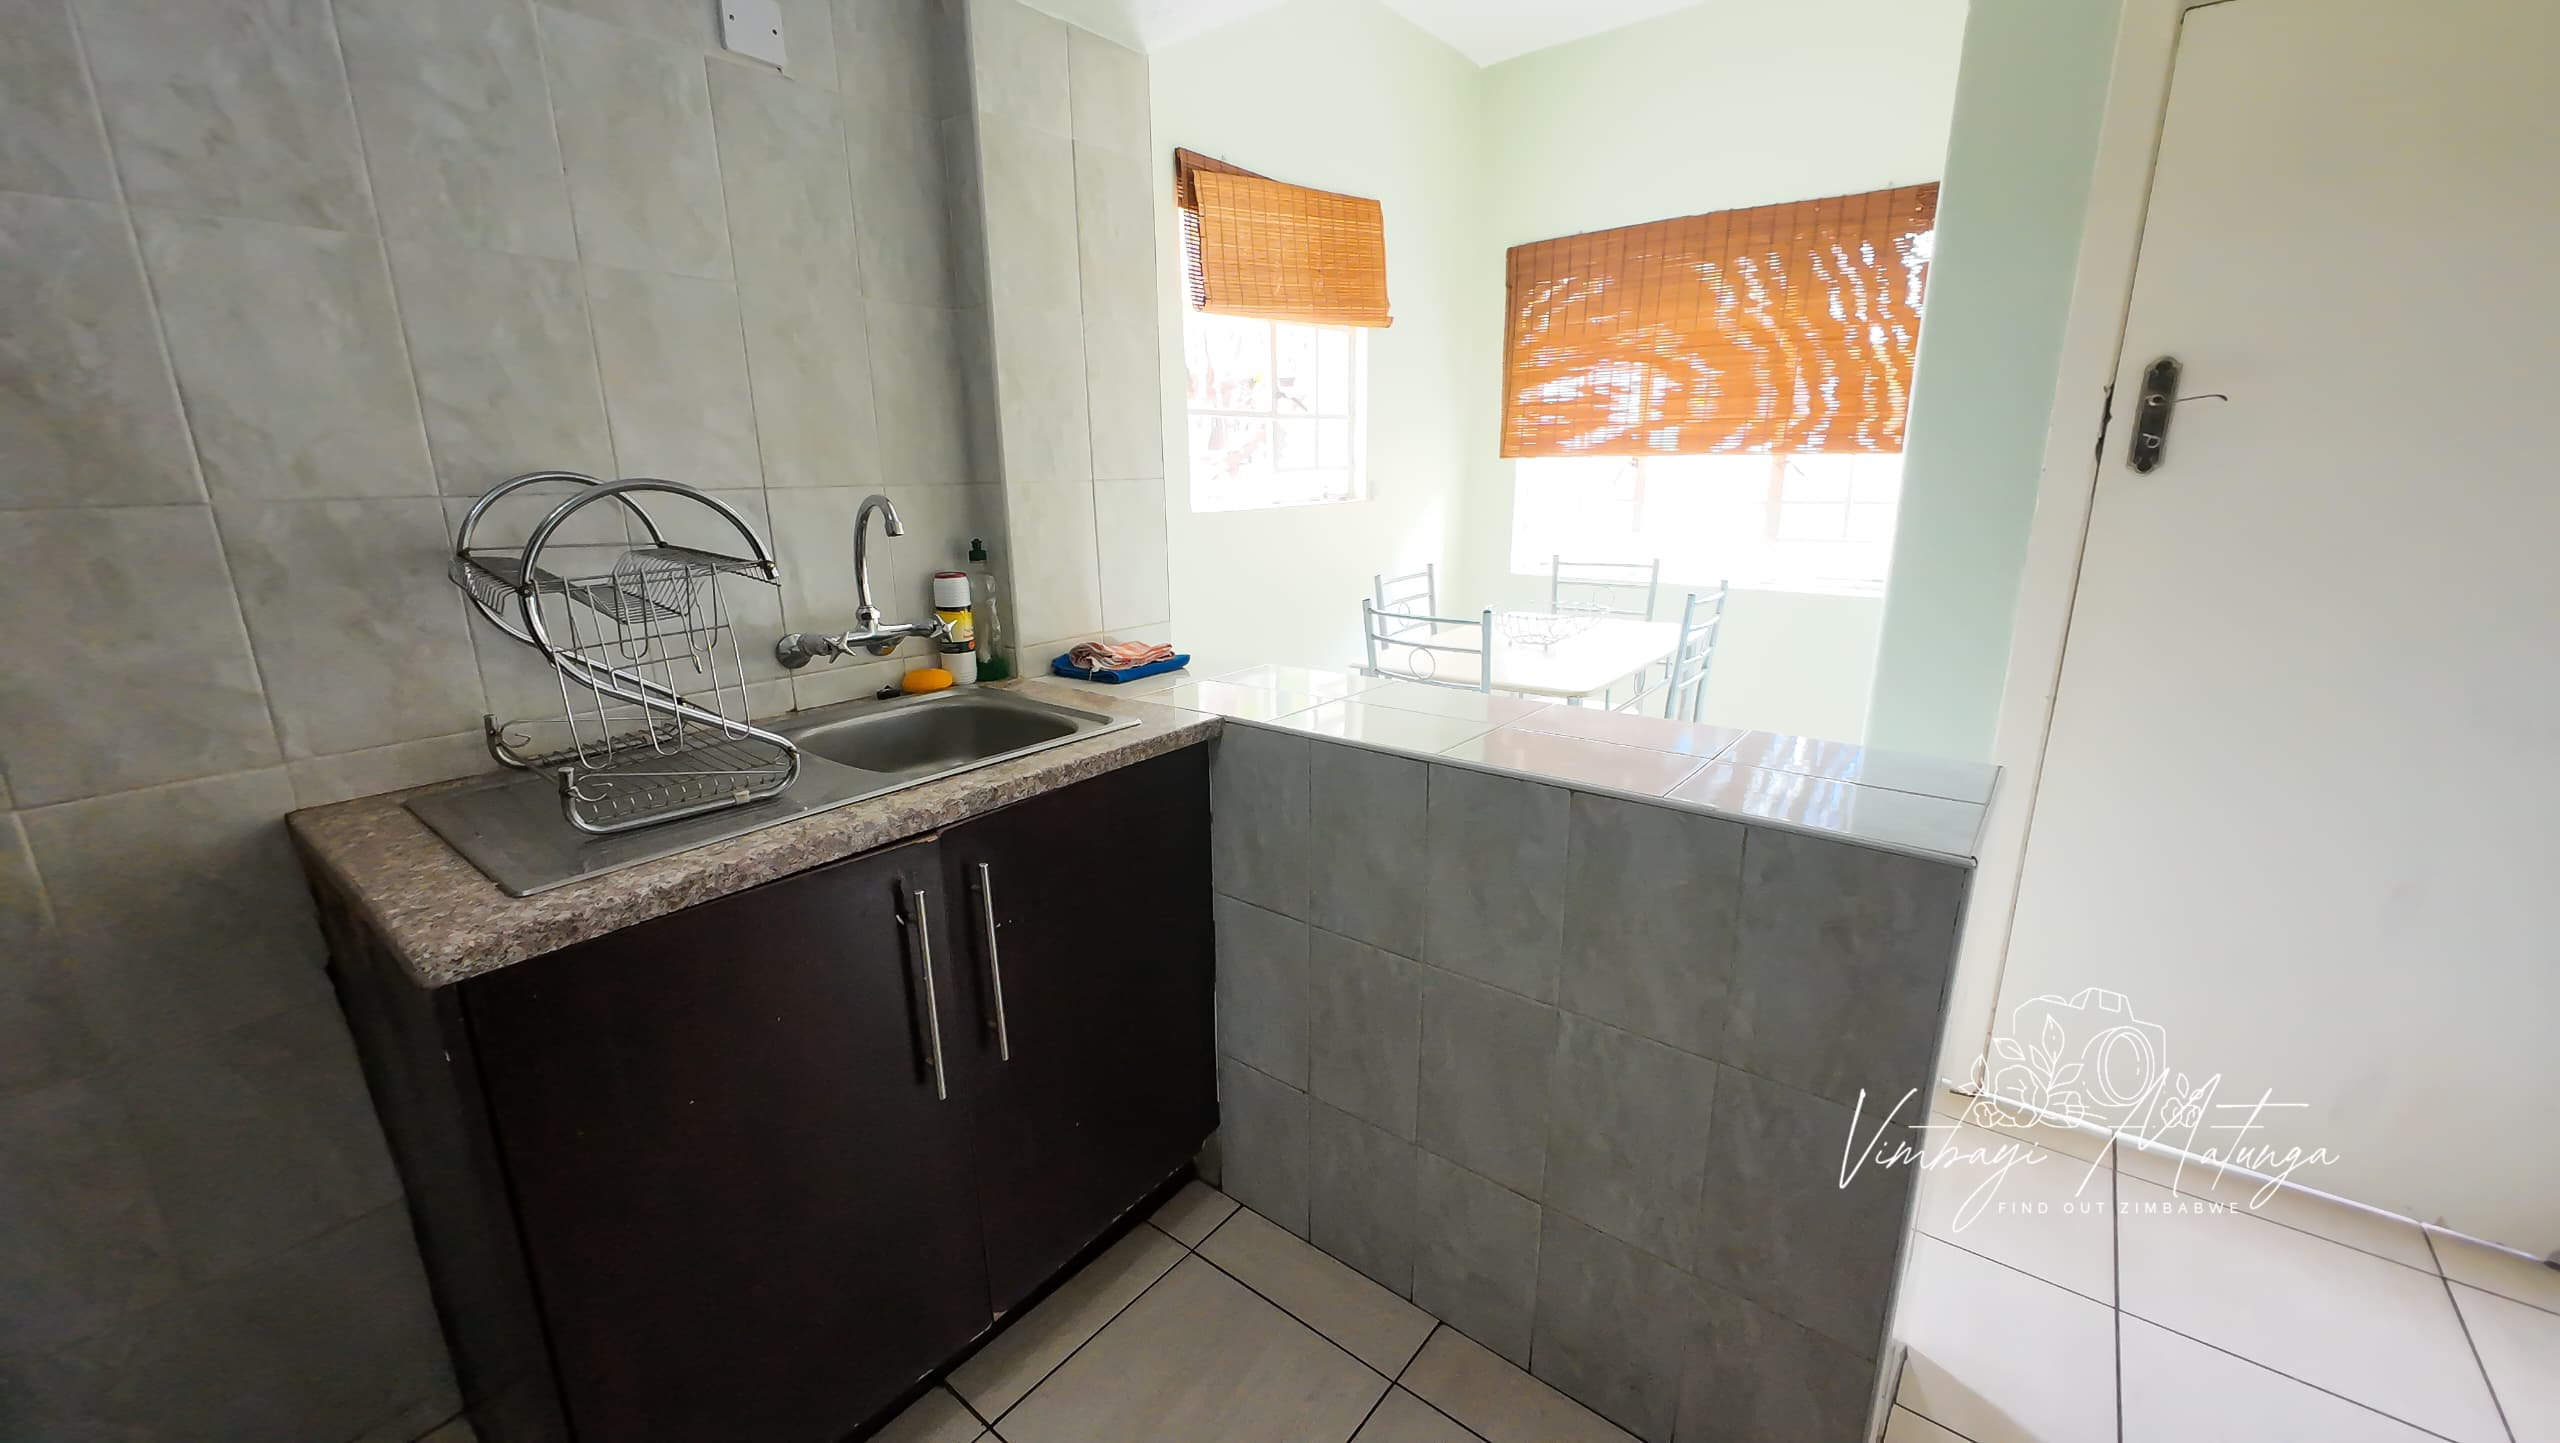
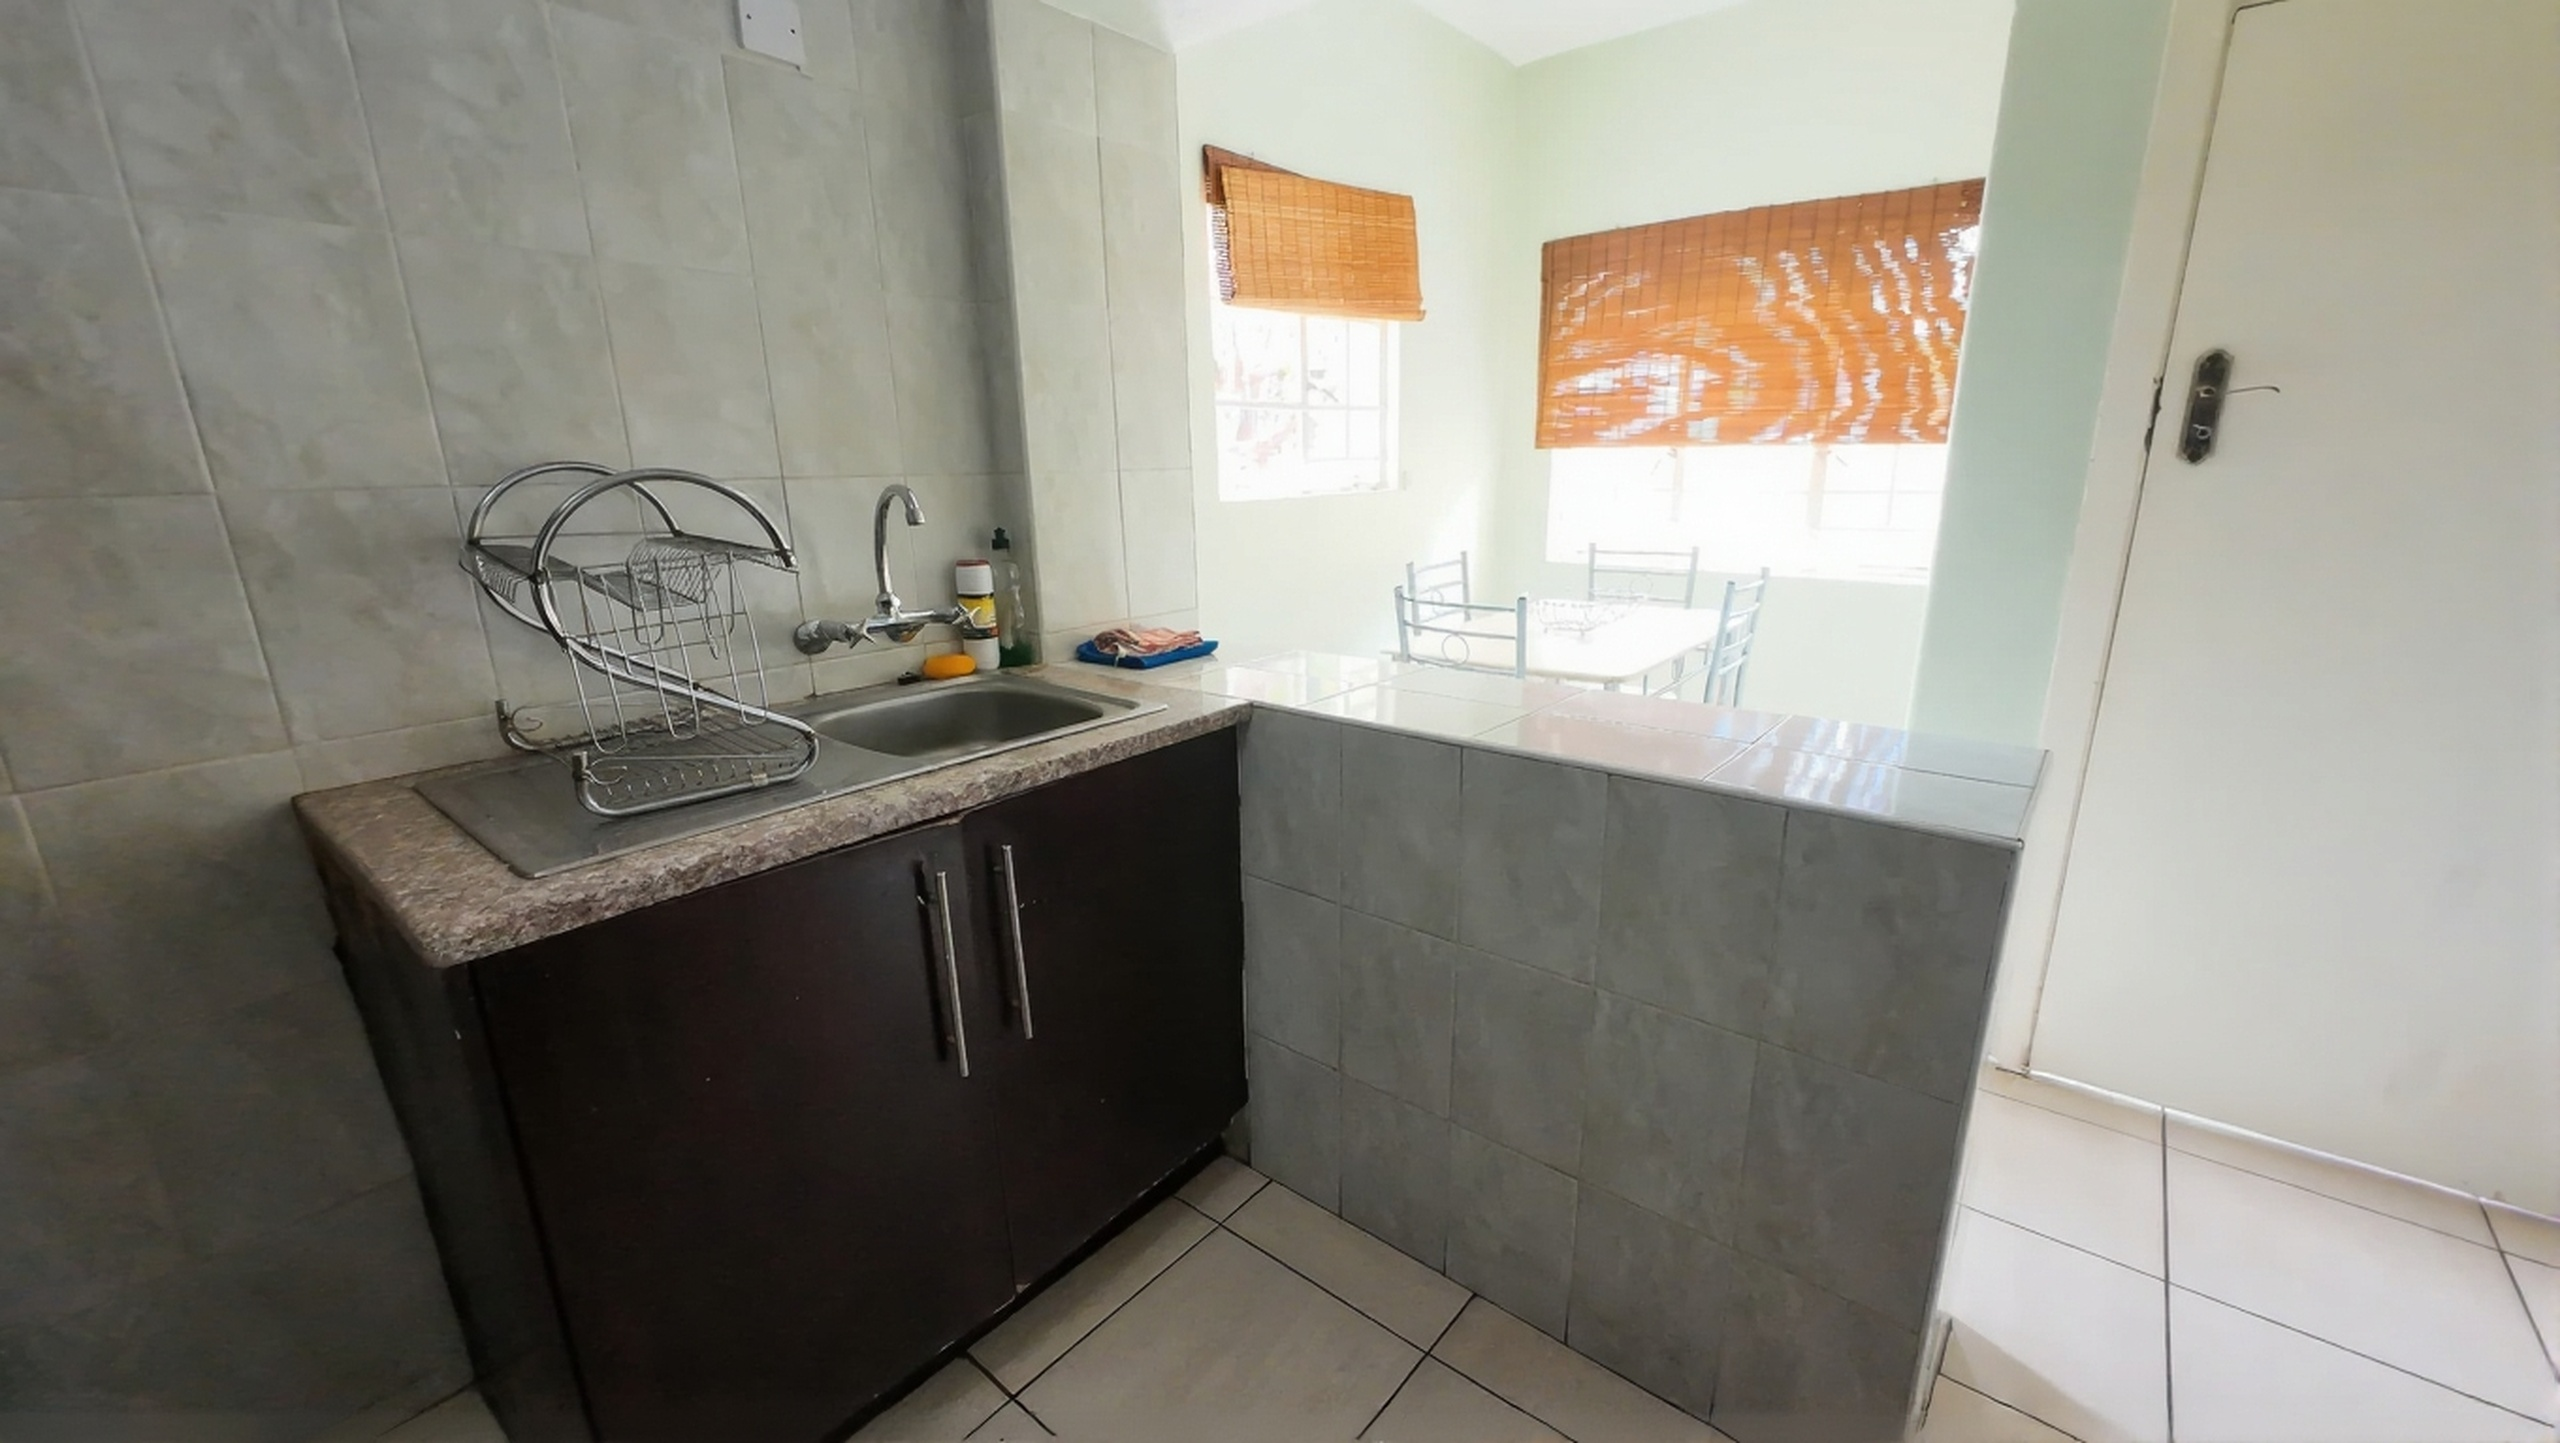
Add files via upload

diff --git a/index.html b/index.html
@@ -17,7 +17,7 @@
 <meta name="geo.region" content="ZW-BU">
 <meta name="geo.placename" content="Bulawayo">
 <meta name="keywords" content="Arikho Suites, Bulawayo accommodation, self-catering apartments, Bulawayo CBD hotel, Zimbabwe lodging, 3-bedroom apartments Bulawayo">
-<link rel="preload" as="image" href="images/hero-bedroom.jpeg">
+<link rel="preload" as="image" href="images/king-1.jpeg">
 <link rel="preconnect" href="https://fonts.googleapis.com">
 <link rel="preconnect" href="https://fonts.gstatic.com" crossorigin>
 <link href="https://fonts.googleapis.com/css2?family=Cormorant+Garamond:ital,wght@0,400;0,500;0,600;1,400;1,500&family=DM+Sans:wght@300;400;500;600&display=swap" rel="stylesheet">
@@ -538,16 +538,16 @@ h3.heading{font-family:var(--serif);font-size:1.65rem;font-weight:500;color:var(
 
 /* ── WA CTA SECTION ─────────────────────────────────── */
 .wa-sec{
-  background:linear-gradient(135deg,var(--plum) 0%,var(--charcoal) 60%,var(--olive) 100%);
+  background:linear-gradient(135deg,var(--plum-soft) 0%,var(--olive-soft) 100%);
   padding:6.5rem 5vw;text-align:center;position:relative;overflow:hidden;
 }
 .wa-sec::before{
   content:'';position:absolute;inset:0;
-  background:radial-gradient(ellipse 70% 70% at 50% 50%,rgba(92,31,110,.3),transparent);
+  background:radial-gradient(ellipse 70% 70% at 50% 50%,rgba(92,31,110,.07),transparent);
   pointer-events:none;
 }
 .wa-sec h2{margin-bottom:1rem;position:relative;z-index:1}
-.wa-sec p{color:rgba(255,255,255,.65);max-width:480px;margin:0 auto 2.8rem;font-weight:300;font-size:1rem;line-height:1.9;position:relative;z-index:1}
+.wa-sec p{color:var(--stone);max-width:480px;margin:0 auto 2.8rem;font-weight:300;font-size:1rem;line-height:1.9;position:relative;z-index:1}
 .wa-sec .btn-wa{position:relative;z-index:1}
 
 /* ── FLOATING WA ─────────────────────────────────────── */
@@ -591,11 +591,11 @@ h3.heading{font-family:var(--serif);font-size:1.65rem;font-weight:500;color:var(
 .loc-split{display:grid;grid-template-columns:1fr 1fr;min-height:440px}
 .loc-map iframe{width:100%;height:100%;min-height:440px;border:none}
 .loc-info{
-  background:linear-gradient(135deg,var(--charcoal) 0%,var(--plum) 100%);
+  background:linear-gradient(135deg,var(--sand) 0%,var(--plum-soft) 100%);
   padding:4.5rem 5vw;display:flex;flex-direction:column;justify-content:center;
 }
 .loc-info h2{margin-bottom:.9rem}
-.loc-info p{color:rgba(255,255,255,.62);font-weight:300;font-size:.95rem;line-height:1.9;max-width:330px}
+.loc-info p{color:var(--stone);font-weight:300;font-size:.95rem;line-height:1.9;max-width:330px}
 @media(max-width:768px){.loc-split{grid-template-columns:1fr}.loc-map iframe{min-height:280px}}
 
 /* ── MASONRY GALLERY ────────────────────────────────── */
@@ -977,16 +977,16 @@ footer{background:var(--charcoal);color:rgba(255,255,255,.55);padding:5rem 5vw 2
         <div class="img-brand"><span class="img-brand-txt">Arikho Suites</span></div>
       </div>
     </div>
-    <div class="split-body" style="background:linear-gradient(140deg,var(--plum) 0%,var(--charcoal) 100%)">
-      <div class="eyebrow light" style="margin-bottom:1.2rem">A Warm Welcome Awaits You</div>
-      <h2 class="display light" style="margin-bottom:1.4rem">Home Away<br><em>From Home</em></h2>
-      <p style="color:rgba(255,255,255,.7);font-weight:300;line-height:1.95;font-size:1rem;margin-bottom:1rem">
+    <div class="split-body" style="background:linear-gradient(140deg,var(--plum-soft) 0%,var(--sand) 100%)">
+      <div class="eyebrow" style="margin-bottom:1.2rem">A Warm Welcome Awaits You</div>
+      <h2 class="display" style="margin-bottom:1.4rem">Home Away<br><em>From Home</em></h2>
+      <p style="color:var(--stone);font-weight:300;line-height:1.95;font-size:1rem;margin-bottom:1rem">
         Whether you're here for business or leisure, our team is committed to ensuring your stay exceeds expectations — from arrival to departure.
       </p>
-      <p style="color:rgba(255,255,255,.5);font-weight:300;line-height:1.9;font-size:.93rem;margin-bottom:2.2rem">
+      <p style="color:var(--stone-light);font-weight:300;line-height:1.9;font-size:.93rem;margin-bottom:2.2rem">
         Established in 2013, Arikho Properties (Pvt Ltd) is a registered self-catering accommodation company with extensive industry knowledge and a passion for exceptional hospitality.
       </p>
-      <button class="btn btn-gold" onclick="go('about')">Our Story →</button>
+      <button class="btn btn-plum" onclick="go('about')">Our Story →</button>
     </div>
   </div>
 
@@ -1026,10 +1026,10 @@ footer{background:var(--charcoal);color:rgba(255,255,255,.55);padding:5rem 5vw 2
   </section>
 
   <!-- TESTIMONIALS -->
-  <section class="sec" style="background:linear-gradient(135deg,var(--charcoal) 0%,#1a0e20 60%,var(--charcoal-2) 100%)">
+  <section class="sec" style="background:linear-gradient(135deg,var(--sand) 0%,var(--cream) 100%)">
     <div class="reveal">
-      <div class="eyebrow light" style="margin-bottom:.8rem">Guest Reviews</div>
-      <h2 class="display light">What Our <em>Guests</em> Say</h2>
+      <div class="eyebrow" style="margin-bottom:.8rem">Guest Reviews</div>
+      <h2 class="display">What Our <em>Guests</em> Say</h2>
     </div>
     <div class="testi-grid reveal" style="transition-delay:.1s">
       <div class="testi-card">
@@ -1074,8 +1074,8 @@ footer{background:var(--charcoal);color:rgba(255,255,255,.55);padding:5rem 5vw 2
       <iframe src="https://www.google.com/maps/embed?pb=!1m18!1m12!1m3!1d3797!2d28.5752!3d-20.1569!2m3!1f0!2f0!3f0!3m2!1i1024!2i768!4f13.1!3m3!1m2!1s0x19266!2sArikho+Suites!5e0!3m2!1sen!2szw!4v1" loading="lazy" title="Arikho Suites Location"></iframe>
     </div>
     <div class="loc-info">
-      <div class="eyebrow light" style="margin-bottom:1rem">Location</div>
-      <h2 class="display light">Heart of <em>Bulawayo</em></h2>
+      <div class="eyebrow" style="margin-bottom:1rem">Location</div>
+      <h2 class="display">Heart of <em>Bulawayo</em></h2>
       <p style="margin-top:1.1rem">4th Avenue / Samuel Parirenyatwa Street, Bulawayo CBD</p>
       <p style="margin-top:.5rem">Also at: 1 Livingstone Avenue, Suburbs, Bulawayo</p>
       <a href="https://maps.google.com/?q=Arikho+Suites+Bulawayo" target="_blank" class="btn btn-gold" style="margin-top:2.2rem;align-self:flex-start">Get Directions →</a>
@@ -1084,8 +1084,8 @@ footer{background:var(--charcoal);color:rgba(255,255,255,.55);padding:5rem 5vw 2
 
   <!-- WA CTA -->
   <div class="wa-sec reveal">
-    <div class="eyebrow light center" style="margin-bottom:1rem;justify-content:center">Direct Bookings</div>
-    <h2 class="display light" style="margin-bottom:1rem">Ready to <em>Stay With Us?</em></h2>
+    <div class="eyebrow center" style="margin-bottom:1rem;justify-content:center">Direct Bookings</div>
+    <h2 class="display" style="margin-bottom:1rem">Ready to <em>Stay With Us?</em></h2>
     <p>No booking fees. Chat directly with our team for the best rate, instant confirmation, and a personal welcome.</p>
     <a href="https://wa.me/263783029961?text=Hello%20Arikho%20Suites%2C%20I%20would%20like%20to%20enquire%20about%20room%20availability%20and%20rates." target="_blank" class="btn-wa" style="margin:0 auto">
       <svg viewBox="0 0 24 24"><path d="M17.472 14.382c-.297-.149-1.758-.867-2.03-.967-.273-.099-.471-.148-.67.15-.197.297-.767.966-.94 1.164-.173.199-.347.223-.644.075-.297-.15-1.255-.463-2.39-1.475-.883-.788-1.48-1.761-1.653-2.059-.173-.297-.018-.458.13-.606.134-.133.298-.347.446-.52.149-.174.198-.298.298-.497.099-.198.05-.371-.025-.52-.075-.149-.669-1.612-.916-2.207-.242-.579-.487-.5-.669-.51-.173-.008-.371-.01-.57-.01-.198 0-.52.074-.792.372-.272.297-1.04 1.016-1.04 2.479 0 1.462 1.065 2.875 1.213 3.074.149.198 2.096 3.2 5.077 4.487.709.306 1.262.489 1.694.625.712.227 1.36.195 1.871.118.571-.085 1.758-.719 2.006-1.413.248-.694.248-1.289.173-1.413-.074-.124-.272-.198-.57-.347m-5.421 7.403h-.004a9.87 9.87 0 01-5.031-1.378l-.361-.214-3.741.982.998-3.648-.235-.374a9.86 9.86 0 01-1.51-5.26c.001-5.45 4.436-9.884 9.888-9.884 2.64 0 5.122 1.03 6.988 2.898a9.825 9.825 0 012.893 6.994c-.003 5.45-4.437 9.884-9.885 9.884m8.413-18.297A11.815 11.815 0 0012.05 0C5.495 0 .16 5.335.157 11.892c0 2.096.547 4.142 1.588 5.945L.057 24l6.305-1.654a11.882 11.882 0 005.683 1.448h.005c6.554 0 11.89-5.335 11.893-11.893a11.821 11.821 0 00-3.48-8.413z"/></svg>
@@ -1102,7 +1102,7 @@ footer{background:var(--charcoal);color:rgba(255,255,255,.55);padding:5rem 5vw 2
 <div id="page-rooms" class="page">
   <div style="padding-top:78px"></div>
   <div class="pg-hero">
-    <img src="images/hero-bedroom.jpeg" alt="Arikho Suites accommodation">
+    <img src="images/king-1.jpeg" alt="Arikho Suites accommodation">
     <div class="pg-hero-grad"></div>
     <div class="pg-hero-content">
       <div class="eyebrow light" style="margin-bottom:.8rem">Accommodation</div>
@@ -1125,8 +1125,8 @@ footer{background:var(--charcoal);color:rgba(255,255,255,.55);padding:5rem 5vw 2
     <div class="fac-grid reveal" id="facGrid2" style="transition-delay:.1s"></div>
   </section>
   <div class="wa-sec reveal">
-    <div class="eyebrow light center" style="margin-bottom:1rem;justify-content:center">Make a Reservation</div>
-    <h2 class="display light" style="margin-bottom:1rem">Found Your <em>Perfect Room?</em></h2>
+    <div class="eyebrow center" style="margin-bottom:1rem;justify-content:center">Make a Reservation</div>
+    <h2 class="display" style="margin-bottom:1rem">Found Your <em>Perfect Room?</em></h2>
     <p>Tell us your dates and any requirements. We'll respond within minutes.</p>
     <a href="https://wa.me/263783029961?text=Hello%20Arikho%20Suites%2C%20I%20would%20like%20to%20enquire%20about%20room%20availability%20and%20rates." target="_blank" class="btn-wa" style="margin:0 auto">
       <svg viewBox="0 0 24 24"><path d="M17.472 14.382c-.297-.149-1.758-.867-2.03-.967-.273-.099-.471-.148-.67.15-.197.297-.767.966-.94 1.164-.173.199-.347.223-.644.075-.297-.15-1.255-.463-2.39-1.475-.883-.788-1.48-1.761-1.653-2.059-.173-.297-.018-.458.13-.606.134-.133.298-.347.446-.52.149-.174.198-.298.298-.497.099-.198.05-.371-.025-.52-.075-.149-.669-1.612-.916-2.207-.242-.579-.487-.5-.669-.51-.173-.008-.371-.01-.57-.01-.198 0-.52.074-.792.372-.272.297-1.04 1.016-1.04 2.479 0 1.462 1.065 2.875 1.213 3.074.149.198 2.096 3.2 5.077 4.487.709.306 1.262.489 1.694.625.712.227 1.36.195 1.871.118.571-.085 1.758-.719 2.006-1.413.248-.694.248-1.289.173-1.413-.074-.124-.272-.198-.57-.347m-5.421 7.403h-.004a9.87 9.87 0 01-5.031-1.378l-.361-.214-3.741.982.998-3.648-.235-.374a9.86 9.86 0 01-1.51-5.26c.001-5.45 4.436-9.884 9.888-9.884 2.64 0 5.122 1.03 6.988 2.898a9.825 9.825 0 012.893 6.994c-.003 5.45-4.437 9.884-9.885 9.884m8.413-18.297A11.815 11.815 0 0012.05 0C5.495 0 .16 5.335.157 11.892c0 2.096.547 4.142 1.588 5.945L.057 24l6.305-1.654a11.882 11.882 0 005.683 1.448h.005c6.554 0 11.89-5.335 11.893-11.893a11.821 11.821 0 00-3.48-8.413z"/></svg>
@@ -1173,7 +1173,7 @@ footer{background:var(--charcoal);color:rgba(255,255,255,.55);padding:5rem 5vw 2
     <div class="masonry reveal" id="galGrid" style="transition-delay:.1s"></div>
   </section>
   <div class="wa-sec reveal">
-    <h2 class="display light" style="margin-bottom:1rem">Like What You <em>See?</em></h2>
+    <h2 class="display" style="margin-bottom:1rem">Like What You <em>See?</em></h2>
     <p>Book directly with our team for the best rates and a personal welcome.</p>
     <a href="https://wa.me/263783029961?text=Hello%20Arikho%20Suites%2C%20I%20saw%20your%20gallery%20and%20would%20like%20to%20book%20a%20stay." target="_blank" class="btn-wa" style="margin:0 auto">
       <svg viewBox="0 0 24 24"><path d="M17.472 14.382c-.297-.149-1.758-.867-2.03-.967-.273-.099-.471-.148-.67.15-.197.297-.767.966-.94 1.164-.173.199-.347.223-.644.075-.297-.15-1.255-.463-2.39-1.475-.883-.788-1.48-1.761-1.653-2.059-.173-.297-.018-.458.13-.606.134-.133.298-.347.446-.52.149-.174.198-.298.298-.497.099-.198.05-.371-.025-.52-.075-.149-.669-1.612-.916-2.207-.242-.579-.487-.5-.669-.51-.173-.008-.371-.01-.57-.01-.198 0-.52.074-.792.372-.272.297-1.04 1.016-1.04 2.479 0 1.462 1.065 2.875 1.213 3.074.149.198 2.096 3.2 5.077 4.487.709.306 1.262.489 1.694.625.712.227 1.36.195 1.871.118.571-.085 1.758-.719 2.006-1.413.248-.694.248-1.289.173-1.413-.074-.124-.272-.198-.57-.347m-5.421 7.403h-.004a9.87 9.87 0 01-5.031-1.378l-.361-.214-3.741.982.998-3.648-.235-.374a9.86 9.86 0 01-1.51-5.26c.001-5.45 4.436-9.884 9.888-9.884 2.64 0 5.122 1.03 6.988 2.898a9.825 9.825 0 012.893 6.994c-.003 5.45-4.437 9.884-9.885 9.884m8.413-18.297A11.815 11.815 0 0012.05 0C5.495 0 .16 5.335.157 11.892c0 2.096.547 4.142 1.588 5.945L.057 24l6.305-1.654a11.882 11.882 0 005.683 1.448h.005c6.554 0 11.89-5.335 11.893-11.893a11.821 11.821 0 00-3.48-8.413z"/></svg>
@@ -1189,7 +1189,7 @@ footer{background:var(--charcoal);color:rgba(255,255,255,.55);padding:5rem 5vw 2
 <div id="page-about" class="page">
   <div style="padding-top:78px"></div>
   <div class="pg-hero">
-    <img src="images/room-executive-2.jpg" alt="Arikho Suites interior">
+    <img src="images/deluxe-1.jpeg" alt="Arikho Suites interior">
     <div class="pg-hero-grad"></div>
     <div class="pg-hero-content">
       <div class="eyebrow light" style="margin-bottom:.8rem">Our Story</div>
@@ -1207,7 +1207,7 @@ footer{background:var(--charcoal);color:rgba(255,255,255,.55);padding:5rem 5vw 2
         <p class="body-sm">At Arikho Suites, we are committed to providing excellent accommodation, efficient service, and exceptional hospitality standards for every guest — whether you are visiting Bulawayo for business or leisure.</p>
       </div>
       <div class="img-wrap" style="aspect-ratio:4/5;border-radius:1rem;overflow:hidden;box-shadow:var(--shadow-lg)">
-        <img src="images/room-executive-1.jpg" alt="Arikho Suites premium room">
+        <img src="images/deluxe-2.jpeg" alt="Arikho Suites premium room">
         <div class="img-brand"><span class="img-brand-txt">Arikho Suites</span></div>
       </div>
     </div>
@@ -1258,7 +1258,7 @@ footer{background:var(--charcoal);color:rgba(255,255,255,.55);padding:5rem 5vw 2
   <section class="sec-sm" style="background:var(--charcoal-2);padding-top:3rem;padding-bottom:3rem">
     <div style="display:grid;grid-template-columns:repeat(4,1fr);gap:4px;border-radius:.75rem;overflow:hidden" class="reveal">
       <div class="img-wrap" style="aspect-ratio:1"><img src="images/kitchen-1.jpeg" alt="Kitchen"><div class="img-brand"><span class="img-brand-txt">Arikho Suites</span></div></div>
-      <div class="img-wrap" style="aspect-ratio:1"><img src="images/bathroom-ensuite.jpg" alt="Ensuite bathroom"><div class="img-brand"><span class="img-brand-txt">Arikho Suites</span></div></div>
+      <div class="img-wrap" style="aspect-ratio:1"><img src="images/king-bath-1.jpeg" alt="Ensuite bathroom"><div class="img-brand"><span class="img-brand-txt">Arikho Suites</span></div></div>
       <div class="img-wrap" style="aspect-ratio:1"><img src="images/dining-room.jpg" alt="Dining area"><div class="img-brand"><span class="img-brand-txt">Arikho Suites</span></div></div>
       <div class="img-wrap" style="aspect-ratio:1"><img src="images/toiletries.png" alt="Guest amenities"><div class="img-brand"><span class="img-brand-txt">Arikho Suites</span></div></div>
     </div>
@@ -1266,23 +1266,23 @@ footer{background:var(--charcoal);color:rgba(255,255,255,.55);padding:5rem 5vw 2
 
   <!-- COMMITMENT SPLIT -->
   <div class="split reveal">
-    <div class="split-body" style="background:linear-gradient(140deg,var(--plum) 0%,var(--charcoal) 100%)">
-      <div class="eyebrow light" style="margin-bottom:1rem">Our Commitment</div>
-      <h2 class="display light" style="margin-bottom:1.4rem">Always <em>Here</em><br>For You</h2>
-      <p style="color:rgba(255,255,255,.68);font-weight:300;line-height:1.95;font-size:.97rem;margin-bottom:1rem">Our office is open from 7am to 8pm daily. Outside of office hours, our security team is on-site to assist with any needs.</p>
-      <p style="color:rgba(255,255,255,.5);font-weight:300;line-height:1.9;font-size:.93rem;margin-bottom:2.2rem">Whether you need a professional chef to prepare your meals, laundry handled, or airport transfers arranged — our team goes the extra mile every time.</p>
-      <a href="https://wa.me/263783029961?text=Hello%20Arikho%20Suites%2C%20I%20would%20like%20to%20make%20a%20booking%20enquiry." target="_blank" class="btn btn-gold">Book a Suite →</a>
+    <div class="split-body" style="background:linear-gradient(140deg,var(--plum-soft) 0%,var(--sand) 100%)">
+      <div class="eyebrow" style="margin-bottom:1rem">Our Commitment</div>
+      <h2 class="display" style="margin-bottom:1.4rem">Always <em>Here</em><br>For You</h2>
+      <p style="color:var(--stone);font-weight:300;line-height:1.95;font-size:.97rem;margin-bottom:1rem">Our office is open from 7am to 8pm daily. Outside of office hours, our security team is on-site to assist with any needs.</p>
+      <p style="color:var(--stone-light);font-weight:300;line-height:1.9;font-size:.93rem;margin-bottom:2.2rem">Whether you need a professional chef to prepare your meals, laundry handled, or airport transfers arranged — our team goes the extra mile every time.</p>
+      <a href="https://wa.me/263783029961?text=Hello%20Arikho%20Suites%2C%20I%20would%20like%20to%20make%20a%20booking%20enquiry." target="_blank" class="btn btn-plum">Book a Suite →</a>
     </div>
     <div class="split-img">
       <div class="img-wrap" style="height:100%">
-        <img src="images/room-double-1.jpg" alt="Arikho Suites bedroom">
+        <img src="images/king-2.jpeg" alt="Arikho Suites bedroom">
         <div class="img-brand"><span class="img-brand-txt">Arikho Suites</span></div>
       </div>
     </div>
   </div>
 
   <div class="wa-sec reveal">
-    <h2 class="display light" style="margin-bottom:1rem">Stay With <em>Us</em></h2>
+    <h2 class="display" style="margin-bottom:1rem">Stay With <em>Us</em></h2>
     <p>Business · Leisure · Great Hospitality</p>
     <a href="https://wa.me/263783029961?text=Hello%20Arikho%20Suites%2C%20I%20would%20like%20to%20make%20a%20booking%20enquiry." target="_blank" class="btn-wa" style="margin:0 auto">
       <svg viewBox="0 0 24 24"><path d="M17.472 14.382c-.297-.149-1.758-.867-2.03-.967-.273-.099-.471-.148-.67.15-.197.297-.767.966-.94 1.164-.173.199-.347.223-.644.075-.297-.15-1.255-.463-2.39-1.475-.883-.788-1.48-1.761-1.653-2.059-.173-.297-.018-.458.13-.606.134-.133.298-.347.446-.52.149-.174.198-.298.298-.497.099-.198.05-.371-.025-.52-.075-.149-.669-1.612-.916-2.207-.242-.579-.487-.5-.669-.51-.173-.008-.371-.01-.57-.01-.198 0-.52.074-.792.372-.272.297-1.04 1.016-1.04 2.479 0 1.462 1.065 2.875 1.213 3.074.149.198 2.096 3.2 5.077 4.487.709.306 1.262.489 1.694.625.712.227 1.36.195 1.871.118.571-.085 1.758-.719 2.006-1.413.248-.694.248-1.289.173-1.413-.074-.124-.272-.198-.57-.347m-5.421 7.403h-.004a9.87 9.87 0 01-5.031-1.378l-.361-.214-3.741.982.998-3.648-.235-.374a9.86 9.86 0 01-1.51-5.26c.001-5.45 4.436-9.884 9.888-9.884 2.64 0 5.122 1.03 6.988 2.898a9.825 9.825 0 012.893 6.994c-.003 5.45-4.437 9.884-9.885 9.884m8.413-18.297A11.815 11.815 0 0012.05 0C5.495 0 .16 5.335.157 11.892c0 2.096.547 4.142 1.588 5.945L.057 24l6.305-1.654a11.882 11.882 0 005.683 1.448h.005c6.554 0 11.89-5.335 11.893-11.893a11.821 11.821 0 00-3.48-8.413z"/></svg>
@@ -1371,8 +1371,8 @@ footer{background:var(--charcoal);color:rgba(255,255,255,.55);padding:5rem 5vw 2
 const WA = n => `https://wa.me/263783029961?text=${encodeURIComponent(n)}`;
 
 const HERO = [
-  'images/hero-bedroom.jpeg',
-  'images/room-executive-1.jpg',
+  'images/king-1.jpeg',
+  'images/deluxe-1.jpeg',
   'images/reception.png'
 ];
 
@@ -1389,43 +1389,56 @@ const FEAT_ICONS = {
 
 const ROOMS = [
   {
+    id:'standard-room',
+    name:'Standard Room',
+    short:'Comfortable standard room with a cosy double bed, private ensuite bathroom and all essential amenities for a relaxing stay.',
+    desc:'Our Standard Room offers a comfortable double bed dressed in fresh grey linen, a private ensuite bathroom, wardrobe, and all the essentials you need for a great night\'s rest. Clean, well-appointed and excellent value — perfect for solo travellers or couples on a shorter stay.',
+    price:'From $70 / night',
+    rating:'4.8',
+    feats:[['bed','Double Bed'],['ensuite','Private Ensuite'],['wifi','Free WiFi'],['park','Secure Parking']],
+    features:['Double Bed','Private Ensuite','Wardrobe','WiFi','Secure Parking'],
+    amenities:['Double bed with fresh linen','Private ensuite bathroom','Wardrobe & storage','High-speed WiFi','Air conditioning','Secure parking','Daily housekeeping','Mosquito nets','Fresh towels provided'],
+    images:['images/standard-1.jpeg','images/standard-2.jpg','images/standard-3.jpeg','images/standard-4.jpeg','images/standard-bath.jpg'],
+    wa:'Hello Arikho Suites, I would like to enquire about the Standard Room. Please advise on availability and rates.'
+  },
+  {
     id:'king-ensuite',
-    name:'King Ensuite Bedroom',
+    name:'King-Size Room',
     short:'Spacious king bedroom with private ensuite bathroom and wardrobe. Part of our fully self-catering 3-bedroom apartment.',
-    desc:'Our King Ensuite Bedroom offers a generous king-sized bed, plush linen, and a private ensuite bathroom finished in marble-style tiles. The room includes ample wardrobe space, a work desk, and large windows letting in natural light. Available as part of a full 3-bedroom self-catering apartment.',
+    desc:'Our King-Size Room offers a generous king-sized bed, plush linen, and a private ensuite bathroom finished in marble-style tiles. The room includes ample wardrobe space, a work desk, and large windows letting in natural light. Available as part of a full 3-bedroom self-catering apartment.',
     price:'From $90 / night',
     rating:'4.9',
     feats:[['bed','King Bed'],['ensuite','Private Ensuite'],['wifi','Free WiFi'],['park','Secure Parking']],
     features:['King Bed','Private Ensuite','Work Desk','WiFi','Secure Parking'],
     amenities:['King-sized bed','Private ensuite bathroom','Wardrobe & storage','Work desk','High-speed WiFi','Air conditioning','Secure parking','Daily housekeeping','Mosquito nets','Fresh linen provided'],
-    images:['images/hero-bedroom.jpeg','images/bathroom-ensuite.jpg','images/room-executive-2.jpg'],
-    wa:'Hello Arikho Suites, I would like to enquire about the King Ensuite Bedroom. Please advise on availability and rates.'
+    images:['images/king-1.jpeg','images/king-2.jpeg','images/king-3.jpeg','images/king-4.jpg','images/king-5.jpg','images/king-bath-1.jpeg','images/king-bath-2.jpeg'],
+    wa:'Hello Arikho Suites, I would like to enquire about the King-Size Room. Please advise on availability and rates.'
   },
   {
-    id:'double-ensuite',
-    name:'Double Ensuite Bedroom',
-    short:'Elegant double bedroom with ensuite, dressing table and wardrobe. Ideal for solo travellers or couples.',
-    desc:'The Double Ensuite Bedroom features a comfortable double bed with premium linen, a private ensuite bathroom, dressing table with mirror, and generous wardrobe space. Bright and airy with large windows. Available as part of a full 3-bedroom self-catering apartment.',
-    price:'From $80 / night',
-    rating:'4.9',
-    feats:[['bed','Double Bed'],['ensuite','Private Ensuite'],['wifi','Free WiFi'],['park','Secure Parking']],
-    features:['Double Bed','Private Ensuite','Dressing Table','WiFi','Secure Parking'],
-    amenities:['Double bed with premium linen','Private ensuite bathroom','Dressing table & mirror','Wardrobe & storage','High-speed WiFi','Air conditioning','Secure parking','Daily housekeeping','Mosquito nets'],
-    images:['images/room-double-1.jpg','images/bathroom-main.jpeg','images/room-executive-1.jpg'],
-    wa:'Hello Arikho Suites, I would like to enquire about the Double Ensuite Bedroom. Please advise on availability and rates.'
+    id:'deluxe-room',
+    name:'Deluxe Room',
+    short:'Elevated comfort with a lounge area, premium furnishings and a beautifully finished private ensuite. The finest room in the house.',
+    desc:'The Deluxe Room is our premium offering — featuring a comfortable seating area with a couch, elegant décor, and a beautifully appointed private ensuite finished in cool grey tones. Ideal for guests who want a little more space, style and comfort. Available as part of our full self-catering apartment.',
+    price:'From $110 / night',
+    rating:'5.0',
+    feats:[['bed','King Bed'],['ensuite','Private Ensuite'],['desk','Lounge Area'],['wifi','Free WiFi']],
+    features:['King Bed','Lounge / Couch Area','Private Ensuite','Work Desk','WiFi','Secure Parking'],
+    amenities:['King-sized bed with premium linen','Lounge seating area','Private ensuite bathroom (grey finish)','Wardrobe & storage','Work desk','High-speed WiFi','Air conditioning','Secure parking','Daily housekeeping','Mosquito nets','Complimentary toiletries'],
+    images:['images/deluxe-1.jpeg','images/deluxe-2.jpeg','images/deluxe-3.jpeg','images/deluxe-bath.jpg'],
+    wa:'Hello Arikho Suites, I would like to enquire about the Deluxe Room. Please advise on availability and rates.'
   },
   {
-    id:'twin-ensuite',
-    name:'Twin Ensuite Bedroom',
-    short:'Two single beds with a private ensuite. Perfect for colleagues or friends travelling together.',
-    desc:'The Twin Ensuite Bedroom features two comfortable single beds — ideal for colleagues or travel companions. Includes a private ensuite bathroom, individual wardrobe spaces, and a relaxed, spacious layout. Available as part of our full 3-bedroom self-catering apartment.',
+    id:'twin-room',
+    name:'Twin Room',
+    short:'Comfortable twin room with two single beds and a private ensuite bathroom — ideal for colleagues or friends travelling together.',
+    desc:'Our Twin Room features two comfortable single beds dressed in fresh linen, a private ensuite bathroom, and all the essentials for a relaxed stay. Bright, well-appointed and great value — perfect for colleagues on a business trip or friends visiting Bulawayo together.',
     price:'From $80 / night',
     rating:'4.8',
     feats:[['bed','Twin Beds'],['ensuite','Private Ensuite'],['wifi','Free WiFi'],['park','Secure Parking']],
-    features:['Twin Beds','Private Ensuite','WiFi','Secure Parking'],
-    amenities:['Two single beds','Private ensuite bathroom','Individual wardrobe space','High-speed WiFi','Air conditioning','Secure parking','Daily housekeeping','Mosquito nets','Fresh linen provided'],
-    images:['images/room-twin.jpg','images/bathroom-wc.jpeg','images/room-double-1.jpg'],
-    wa:'Hello Arikho Suites, I would like to enquire about the Twin Ensuite Bedroom. Please advise on availability and rates.'
+    features:['Two Single Beds','Private Ensuite','Wardrobe','WiFi','Secure Parking'],
+    amenities:['Two single beds with fresh linen','Private ensuite bathroom','Wardrobe & storage','High-speed WiFi','Air conditioning','Secure parking','Daily housekeeping','Mosquito nets','Fresh towels provided'],
+    images:['images/twin-1.jpeg','images/twin-2.jpg','images/twin-bath.jpg'],
+    wa:'Hello Arikho Suites, I would like to enquire about the Twin Room. Please advise on availability and rates.'
   },
   {
     id:'full-apartment',
@@ -1437,55 +1450,48 @@ const ROOMS = [
     feats:[['bed','3 Bedrooms'],['ensuite','All Ensuite'],['kitchen','Full Kitchen'],['chef','Chef Available']],
     features:['3 Bedrooms','All Ensuite','Full Kitchen','Dining Area','Secure Parking','Chef Available'],
     amenities:['Three ensuite bedrooms','Fully equipped kitchen','Dining area','Secure parking','High-speed WiFi','Air conditioning','Laundry service','Professional chef on request','Airport transfers','Daily housekeeping','Mosquito nets','24/7 security'],
-    images:['images/kitchen-2.jpeg','images/dining-room.jpeg','images/kitchen-1.jpeg'],
+    images:['images/kitchen-2.jpeg','images/dining-room.jpg','images/kitchen-1.jpeg'],
     wa:'Hello Arikho Suites, I would like to enquire about booking the full 3-bedroom apartment. Please advise on availability and rates.'
-  },
-  {
-    id:'kitchen',
-    name:'Self-Catering Kitchen',
-    short:'Every apartment features a fully equipped kitchen — fridge, stove, microwave, utensils and more included.',
-    desc:'Each apartment includes a fully stocked self-catering kitchen equipped with a full-sized fridge/freezer, electric stove, microwave, kettle, toaster, and all the cookware and utensils you need. Cook your own meals on your own schedule, or request our professional chef service for a truly effortless stay.',
-    price:'Enquire for rates',
-    rating:'4.9',
-    feats:[['kitchen','Full Fridge'],['kitchen','Stove & Micro'],['chef','Chef Available'],['wifi','Free WiFi']],
-    features:['Full Fridge','Stove','Microwave','Kettle','Cookware','Chef Available'],
-    amenities:['Full-sized refrigerator','Electric stove','Microwave oven','Kettle & toaster','Cookware & utensils','Dining area','Professional chef on request','Grocery delivery arrangement'],
-    images:['images/kitchen-1.jpeg','images/kitchen-2.jpeg','images/kitchen-3.jpeg'],
-    wa:'Hello Arikho Suites, I would like to enquire about the self-catering kitchen facilities. Please advise on available apartments.'
-  },
-  {
-    id:'ensuite-bathrooms',
-    name:'Private Ensuite Bathrooms',
-    short:'Every bedroom has its own private ensuite. Marble-finish tiles, shower and full bath options available.',
-    desc:'At Arikho Suites, every bedroom has its own private ensuite bathroom — no sharing required. Our bathrooms feature marble-style tiles, overhead showers, quality fittings, and are stocked with fresh towels and complimentary toiletries on every stay.',
-    price:'Enquire for rates',
-    rating:'4.9',
-    feats:[['ensuite','Private Ensuite'],['ensuite','Marble Tiles'],['ensuite','Shower'],['ensuite','Toiletries']],
-    features:['Private Ensuite','Marble Tiles','Shower','Bath Option','Toiletries'],
-    amenities:['Private ensuite per bedroom','Walk-in shower','Bathtub (selected rooms)','Marble-style tile finish','Fresh towels provided','Complimentary toiletries','Daily housekeeping'],
-    images:['images/bathroom-ensuite.jpg','images/bathroom-main.jpg','images/toiletries.jpeg'],
-    wa:'Hello Arikho Suites, I would like to enquire about your ensuite bathroom facilities and available rooms.'
   }
 ];
 
 const GALLERY = [
-  {src:'images/hero-bedroom.jpeg',      alt:'King bedroom suite',          cat:'bedroom'},
-  {src:'images/room-executive-1.jpg',  alt:'Executive bedroom',           cat:'bedroom'},
-  {src:'images/room-executive-2.jpg',  alt:'Suite bedroom — wide view',   cat:'bedroom'},
-  {src:'images/room-double-1.jpg',     alt:'Double ensuite bedroom',      cat:'bedroom'},
-  {src:'images/room-twin.jpg',         alt:'Twin bedroom',                cat:'bedroom'},
-  {src:'images/kitchen-1.jpeg',         alt:'Fully equipped kitchen',      cat:'kitchen'},
-  {src:'images/kitchen-2.jpeg',         alt:'Kitchen — second view',       cat:'kitchen'},
-  {src:'images/kitchen-3.jpg',         alt:'Kitchen with appliances',     cat:'kitchen'},
-  {src:'images/kitchen-4.jpeg',         alt:'Kitchen with fire safety',    cat:'kitchen'},
-  {src:'images/dining-room.jpg',       alt:'Dining area',                 cat:'dining'},
-  {src:'images/dining-room-2.png',     alt:'Main dining hall',            cat:'dining'},
-  {src:'images/dining-room-3.jpg',     alt:'Dining — second view',        cat:'dining'},
-  {src:'images/bathroom-ensuite.jpg',  alt:'Private ensuite bathroom',    cat:'bathroom'},
-  {src:'images/bathroom-main.jpg',     alt:'Bathroom with bathtub',       cat:'bathroom'},
-  {src:'images/bathroom-wc.jpg',       alt:'Clean bathroom facilities',   cat:'bathroom'},
-  {src:'images/toiletries.png',        alt:'Guest toiletries & towels',   cat:'bathroom'},
-  {src:'images/reception.png',         alt:'Reception entrance',          cat:'exterior'},
+  // Bedrooms — Standard
+  {src:'images/standard-1.jpeg',       alt:'Standard room',                    cat:'bedroom'},
+  {src:'images/standard-2.jpg',        alt:'Standard room — second view',      cat:'bedroom'},
+  {src:'images/standard-3.jpeg',       alt:'Standard room — third view',       cat:'bedroom'},
+  {src:'images/standard-4.jpeg',       alt:'Standard room — fourth view',      cat:'bedroom'},
+  // Bedrooms — King
+  {src:'images/king-1.jpeg',           alt:'King-size room',                   cat:'bedroom'},
+  {src:'images/king-2.jpeg',           alt:'King-size room — second view',     cat:'bedroom'},
+  {src:'images/king-3.jpeg',           alt:'King-size room — third view',      cat:'bedroom'},
+  {src:'images/king-4.jpg',            alt:'King-size room — fourth view',     cat:'bedroom'},
+  {src:'images/king-5.jpg',            alt:'King-size room — fifth view',      cat:'bedroom'},
+  // Bedrooms — Deluxe
+  {src:'images/deluxe-1.jpeg',         alt:'Deluxe room',                      cat:'bedroom'},
+  {src:'images/deluxe-2.jpeg',         alt:'Deluxe room — second view',        cat:'bedroom'},
+  {src:'images/deluxe-3.jpeg',         alt:'Deluxe room — third view',         cat:'bedroom'},
+  // Bedrooms — Twin
+  {src:'images/twin-1.jpeg',           alt:'Twin room',                        cat:'bedroom'},
+  {src:'images/twin-2.jpg',            alt:'Twin room — second view',          cat:'bedroom'},
+  // Bathrooms
+  {src:'images/king-bath-1.jpeg',       alt:'King-size room bathroom',          cat:'bathroom'},
+  {src:'images/king-bath-2.jpeg',       alt:'King-size room bathroom — view 2', cat:'bathroom'},
+  {src:'images/standard-bath.jpg',     alt:'Standard room bathroom',           cat:'bathroom'},
+  {src:'images/deluxe-bath.jpg',       alt:'Deluxe room bathroom',             cat:'bathroom'},
+  {src:'images/twin-bath.jpg',         alt:'Twin room bathroom',               cat:'bathroom'},
+  {src:'images/toiletries.png',        alt:'Guest toiletries & towels',        cat:'bathroom'},
+  // Kitchen & Dining
+  {src:'images/kitchen-1.jpeg',        alt:'Fully equipped kitchen',           cat:'kitchen'},
+  {src:'images/kitchen-2.jpeg',        alt:'Kitchen — second view',            cat:'kitchen'},
+  {src:'images/kitchen-3.jpg',         alt:'Kitchen with appliances',          cat:'kitchen'},
+  {src:'images/kitchen-4.jpeg',        alt:'Kitchen — fourth view',            cat:'kitchen'},
+  {src:'images/dining-room.jpg',      alt:'Dining area',                      cat:'dining'},
+  {src:'images/dining-room-2.png',     alt:'Dining hall',                      cat:'dining'},
+  {src:'images/dining-room-3.jpg',     alt:'Dining — second view',             cat:'dining'},
+  // Exterior
+  {src:'images/reception.png',         alt:'Reception entrance',               cat:'exterior'},
+
 ];
 
 const FACILITIES = [
@@ -1644,9 +1650,7 @@ function renderGallery() {
       <div class="img-wrap"><img src="${g.src}" alt="${g.alt}" loading="lazy">
         <div class="img-brand"><span class="img-brand-txt">Arikho Suites</span></div>
       </div>
-      <div class="masonry-overlay">
-        <svg viewBox="0 0 24 24"><circle cx="11" cy="11" r="8"/><line x1="21" y1="21" x2="16.65" y2="16.65"/><line x1="11" y1="8" x2="11" y2="14"/><line x1="8" y1="11" x2="14" y2="11"/></svg>
-      </div>
+
     </div>`).join('');
 }
 